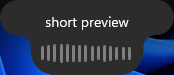
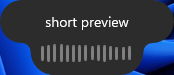
Refresh native screenshots with the centered preview bar

diff --git a/docs/img/native-popup-layout/README.md b/docs/img/native-popup-layout/README.md
@@ -1,10 +1,10 @@
 # Native popup layout evidence
 
-The preview sits above a compact waveform or processing label inside one connected outline. Rounded cutouts follow the lower content's width. Previews have 12 points of top padding, an 8-point gap above the lower strip and 8 points of bottom padding. Empty previews and sign-in renewal use a standalone capsule. The reference is the accepted Linux test implementation at `575671e`.
+The preview sits above a compact waveform or processing label inside one connected outline. Rounded cutouts follow the lower content's width. Previews have 12 points of top padding, an 8-point gap above the lower strip and 8 points of bottom padding, and the contour's shoulder sits 12 points below the preview text so it reads centered in the wide bar. Empty previews and sign-in renewal use a standalone capsule. The reference is the accepted Linux test implementation at `575671e`.
 
 ## Windows
 
-The after images show Windows source `66b94a3`, built with MSVC and Qt 6.8.3 and captured from the Windows 11 VM desktop. The original before images use `b67b7fc`. The layout-update comparison uses the previous PR layout at `313b255` on its left. Captures use synthetic speech levels and sample text in an isolated test profile.
+The after images show Windows source `fbc5672`, built with MSVC and Qt 6.8.3 and captured from the Windows 11 VM desktop. The original before images use `b67b7fc`. The layout-update comparison uses the previous PR layout at `313b255` on its left. Captures use synthetic speech levels and sample text in an isolated test profile.
 
 Windows uses the existing theme-aware acrylic brush. It renders as a flat fill in this VM; the blue areas outside the contour are the desktop wallpaper. These images establish layout and shape, not desktop translucency.
 
@@ -14,7 +14,7 @@ The full build and all 21 CTest suites passed before the padding adjustment. The
 
 ## macOS
 
-The final macOS source is `10274c7`. Native captures come from [workflow 34526786723](https://github.com/firemonster612/speecher/actions/runs/34526786723). The main comparison uses frames from the packaged app's scripted dictation flow. Short, long, frozen and renewal images come from the bridge-driven native panel test in the same workflow. Both sets render the real SwiftUI views. The build, tests and all three application-flow verdicts passed. The final captures were inspected, including transitions back to processing and receipt capsules.
+The final macOS source is `fbc5672`. Native captures come from [workflow 34594746414](https://github.com/firemonster612/speecher/actions/runs/34594746414). The main comparison uses frames from the packaged app's scripted dictation flow. Short, long, frozen and renewal images come from the bridge-driven native panel test in the same workflow. Both sets render the real SwiftUI views. The build, tests and all three application-flow verdicts passed. The final captures were inspected, including transitions back to processing and receipt capsules.
 
 The original before captures use `b67b7fc` from [workflow 34398156576](https://github.com/firemonster612/speecher/actions/runs/34398156576). The layout-update comparison uses the previous PR layout from [workflow 34461408821](https://github.com/firemonster612/speecher/actions/runs/34461408821) on its left. Flow frames pair equivalent states; animation timing, preview words and receipt details may differ between runs.
 
@@ -24,4 +24,4 @@ The carved preview uses macOS regular material. Standalone capsules retain the b
 
 Comparison sheets retain each source image's pixel scale. Transparent pixels are composited onto a blue-grey background for readability; that background is not an application color. Original PNG captures are included beside the comparison sheets.
 
-The spacing comparisons pair the earlier contour with the final padding using identical sample text. Windows before source is `d347d35`; macOS before source is `9a45ee6`. The native previews gain 16 points of vertical room; the Linux PR applies the same padding.
+The spacing comparisons pair the previous 4-point shoulder at `f01077e` with the centered bar using identical sample text. Only the painted outline moved; panel heights are unchanged. The Linux PR applies the same geometry.
